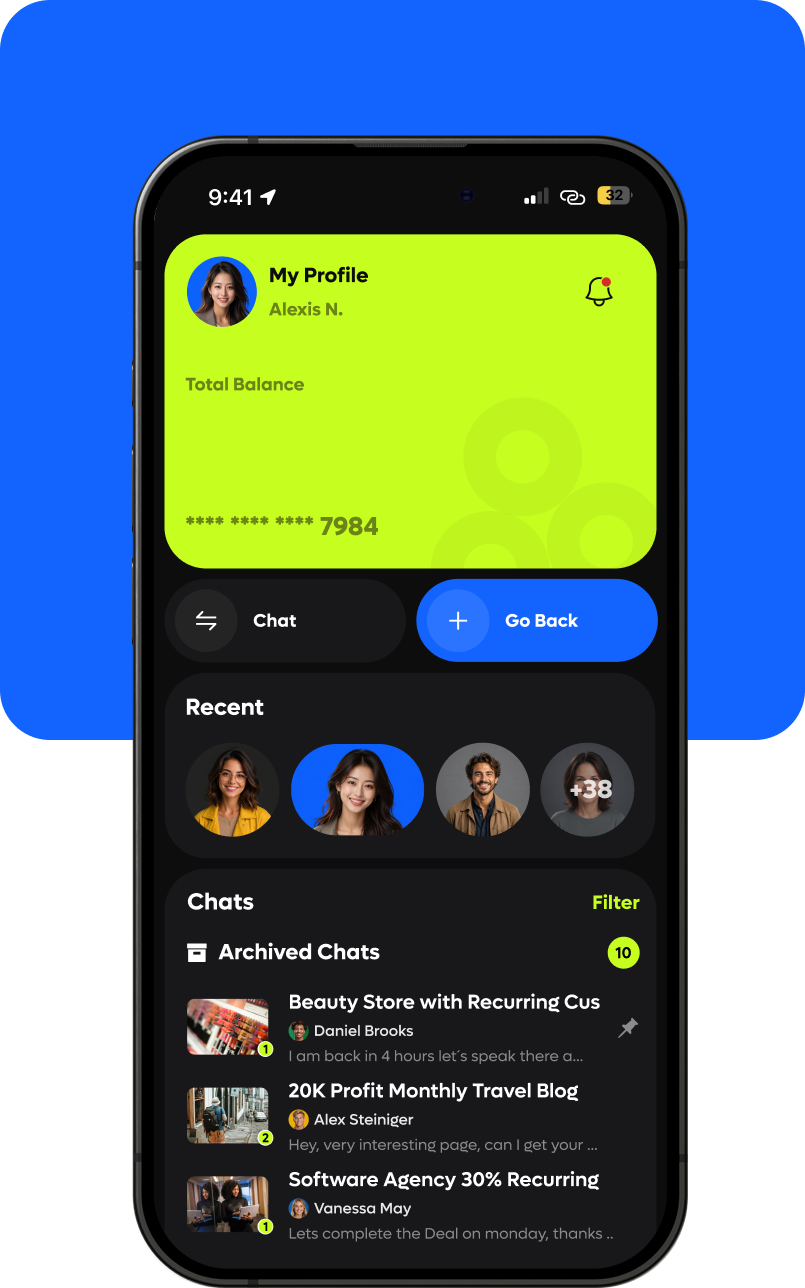
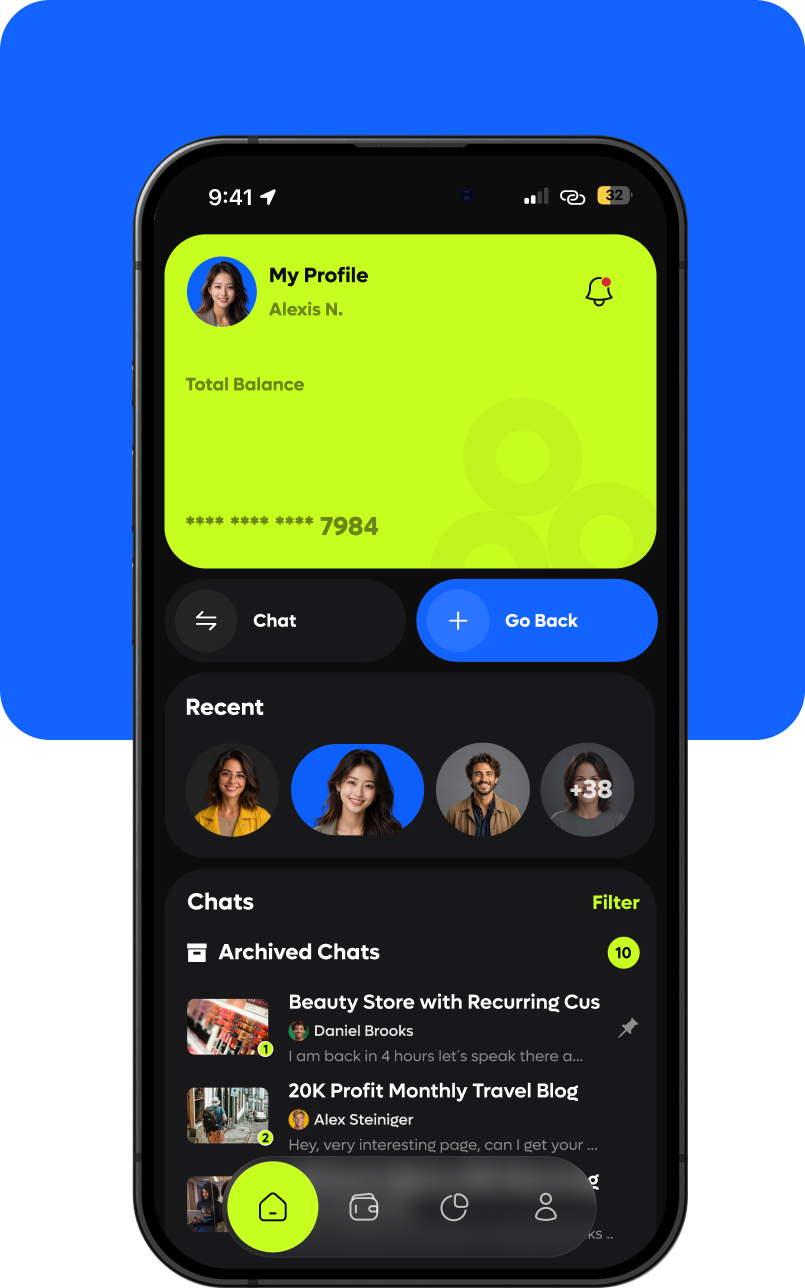
feat: frosted squares on the sign-up photo, updated chat app visual

Changed region(s): [[0.2795, 0.9006, 0.7453, 0.9938]]

diff --git a/frontend/src/components/AuthLayout.tsx b/frontend/src/components/AuthLayout.tsx
@@ -43,9 +43,8 @@ const StepProgress = ({ currentStep, totalSteps }: { currentStep: number; totalS
     {Array.from({ length: totalSteps }).map((_, idx) => (
       <div
         key={idx}
-        className={`h-1 w-14 sm:w-16 rounded-full transition-colors ${
-          idx + 1 === currentStep ? "bg-accent" : "bg-border"
-        }`}
+        className={`h-1 w-14 sm:w-16 rounded-full transition-colors ${idx + 1 === currentStep ? "bg-accent" : "bg-border"
+          }`}
       />
     ))}
   </div>
@@ -76,7 +75,7 @@ export const AuthLayout = ({ children, currentStep = 1, totalSteps = 4, variant 
     return (
       <div className="min-h-screen flex flex-col lg:flex-row bg-[#19181F]">
         {/* Left Panel - Background Image (50% width) */}
-        <div 
+        <div
           className="hidden lg:flex w-1/2 relative overflow-hidden"
           style={{
             minHeight: '100vh',
@@ -113,16 +112,16 @@ export const AuthLayout = ({ children, currentStep = 1, totalSteps = 4, variant 
         </div>
 
         {/* Right Panel - Login Form (50% width) */}
-        <div 
+        <div
           className="flex-1 lg:w-1/2 flex flex-col p-8 lg:p-16 bg-white"
           style={{
             minHeight: '100vh',
           }}
         >
           <Link to="/" className="mb-8">
-            <img 
-              src={logo} 
-              alt="EX Logo" 
+            <img
+              src={logo}
+              alt="EX Logo"
               className="h-16 w-16 object-contain"
               decoding="async"
               sizes="64px"
@@ -148,9 +147,9 @@ export const AuthLayout = ({ children, currentStep = 1, totalSteps = 4, variant 
       {/* Left Panel - Form */}
       <div className="flex-1 flex flex-col p-8 lg:p-16 bg-background">
         <Link to="/" className="mb-8">
-          <img 
-            src={logo} 
-            alt="EX Logo" 
+          <img
+            src={logo}
+            alt="EX Logo"
             className="h-16 w-16 object-contain"
             decoding="async"
             sizes="64px"
@@ -168,7 +167,7 @@ export const AuthLayout = ({ children, currentStep = 1, totalSteps = 4, variant 
       </div>
 
       {/* Right Panel - Background & Testimonial */}
-      <div 
+      <div
         className="hidden lg:flex flex-1 relative items-end p-16 bg-cover bg-center"
         style={{ backgroundImage: `url(${authBackground})` }}
       >
@@ -176,7 +175,7 @@ export const AuthLayout = ({ children, currentStep = 1, totalSteps = 4, variant 
 
         {/* Frosted squares drifting over the photo, as in the design. Decorative
             only, so they are hidden from assistive tech and ignore pointers. */}
-        {/* <div className="absolute inset-0 pointer-events-none" aria-hidden="true">
+        <div className="absolute inset-0 pointer-events-none" aria-hidden="true">
           {[
             { top: "6%", right: "8%", size: 96 },
             { top: "14%", right: "20%", size: 56 },
@@ -196,14 +195,14 @@ export const AuthLayout = ({ children, currentStep = 1, totalSteps = 4, variant 
               }}
             />
           ))}
-        </div> */}
+        </div>
 
         <div className="relative z-10 max-w-2xl">
           <div className="backdrop-blur-xl bg-background/10 rounded-3xl p-8 border border-white/20">
             <blockquote className="text-white text-2xl font-medium mb-8 leading-relaxed">
               "{testimonials[activeTestimonial].quote}"
             </blockquote>
-            
+
             <div className="space-y-2">
               <h3 className="text-white text-xl font-semibold">
                 {testimonials[activeTestimonial].title}
